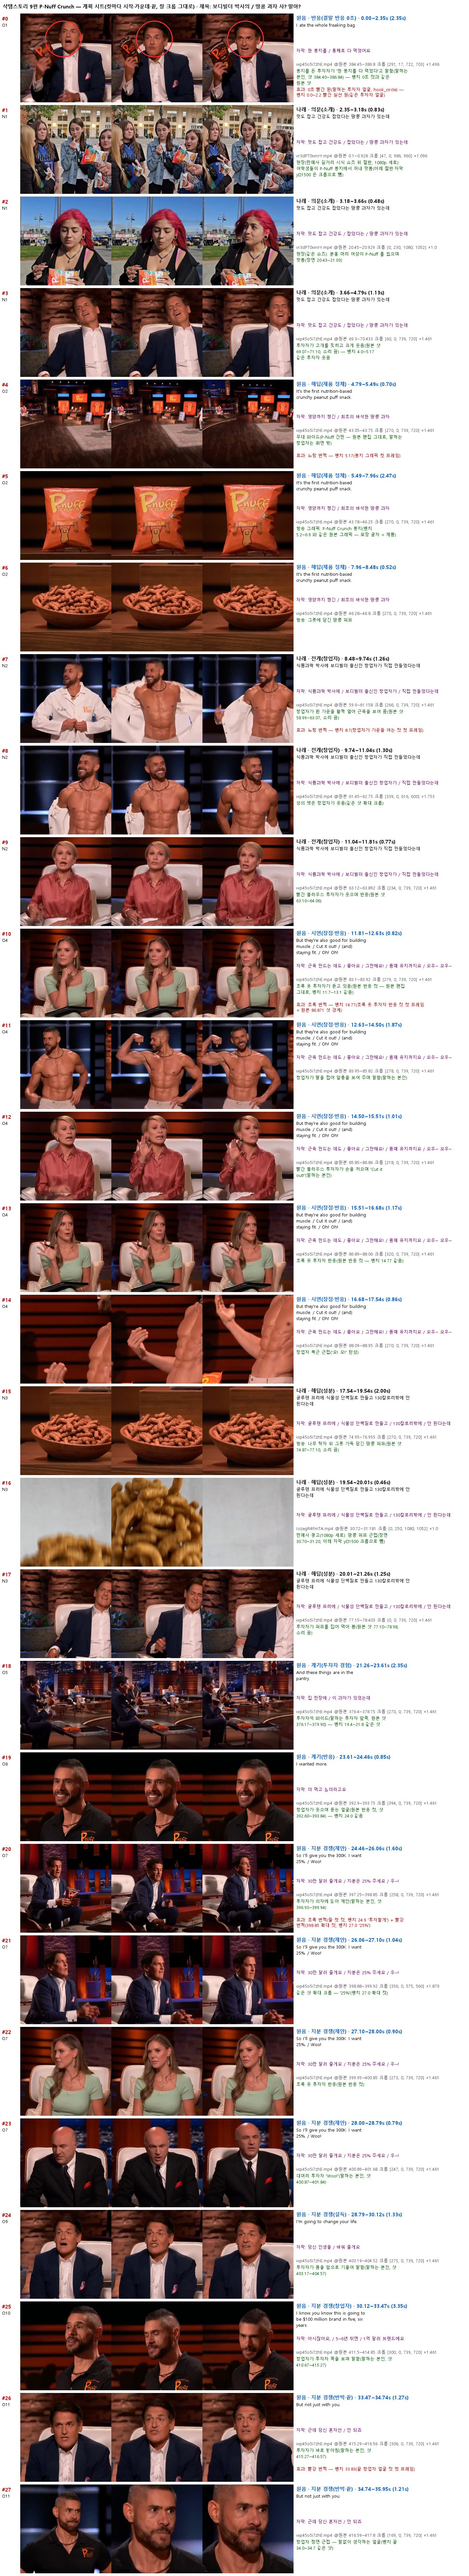
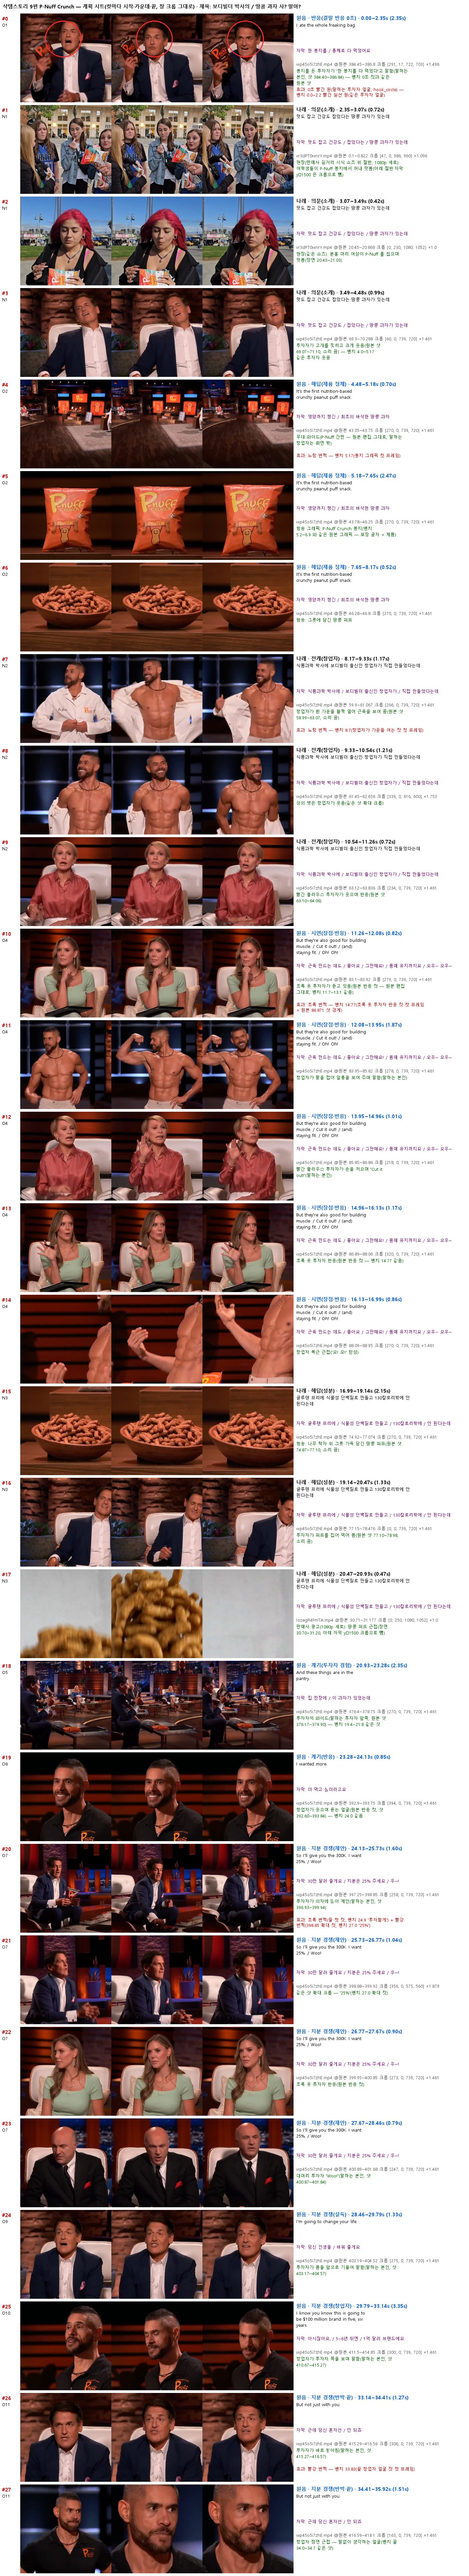
샥탬스토리 9편 P-Nuff Crunch 렌더: 36.53초 −9.0 LUFS · check 8/9(B16' 원본 급줌·광고 움직임) · verify_fx 6/6·7/7 · MD5 23DF7209 바탕화면·드라이브 (관제 097)

diff --git a/channel/foreignshowshow/9편_PNuffCrunch/make_plan.py b/channel/foreignshowshow/9편_PNuffCrunch/make_plan.py
@@ -97,9 +97,9 @@ LINES = [
     {"id": "N3", "kind": "나레", "beat": "해답(성분)", "text": "글루텐 프리에 식물성 단백질로 만들고 130칼로리밖에 안 된다는데",
      "tts": "글루텐 프리에 식물성 단백질로 만들고 백삼십 칼로리밖에 안 된다는데",
      "sub": ["글루텐 프리에", "식물성 단백질로 만들고", "130칼로리밖에", "안 된다는데"], "facts": ["f6"],
-     "cuts": [C(CLIP, 74.95, 76.95, 640, ours="방송: 나무 탁자 위 그릇 가득 담긴 땅콩 퍼프(원본 샷 74.87~77.10, 소리 끔)"),
-              C(IO, 30.72, 31.18, 540, 250, ours="판매사 광고(1080p 세로): 땅콩 퍼프 근접(장면 30.70~31.20, 아래 자막 y≈1500 크롭으로 뺌)"),
-              C(CLIP, 77.15, 78.40, ours="투자자가 퍼프를 집어 먹어 봄(원본 샷 77.10~78.98, 소리 끔)")]},
+     "cuts": [C(CLIP, 74.92, 76.95, 640, ours="방송: 나무 탁자 위 그릇 가득 담긴 땅콩 퍼프(원본 샷 74.87~77.10, 소리 끔)"),
+              C(CLIP, 77.15, 78.40, ours="투자자가 퍼프를 집어 먹어 봄(원본 샷 77.10~78.98, 소리 끔)"),
+              C(IO, 30.71, 31.15, 540, 250, ours="판매사 광고(1080p 세로): 땅콩 퍼프 근접(장면 30.70~31.20, 아래 자막 y≈1500 크롭으로 뺌)")]},
     {"id": "O5", "kind": "원음", "beat": "계기(투자자 경험)", "audio": (376.40, 378.75), "en": "And these things are in the pantry.",
      "sub": ["집 찬장에", "이 과자가 있었는데"], "facts": ["f7"], "cap_at": [376.48, 377.46],
      "cuts": [C(CLIP, 376.40, 378.75, 640, ours="투자자석 와이드(말하는 투자자 앞쪽, 원본 샷 376.17~379.90) — 벤치 19.4~21.8 같은 샷")]},
@@ -120,11 +120,11 @@ LINES = [
      "en": "I know you know this is going to be $100 million brand in five, six years.",
      "sub": ["아시잖아요,", "5~6년 뒤엔", "1억 달러 브랜드예요"], "facts": ["f9"], "cap_at": [411.56, 412.36, 413.08],
      "cuts": [C(CLIP, 411.50, 414.85, ours="창업자가 투자자 쪽을 보며 말함(말하는 본인, 샷 410.67~415.27)")]},
-    {"id": "O11", "kind": "원음", "beat": "지분 경쟁(반박·끝)", "audio": (415.29, 417.80), "en": "But not just with you.",
+    {"id": "O11", "kind": "원음", "beat": "지분 경쟁(반박·끝)", "audio": (415.29, 418.10), "en": "But not just with you.",
      "sub": ["근데 당신 혼자선", "안 되죠"], "facts": ["f9"], "cap_at": [415.32, 415.88],
      "fx": "빨강 번쩍 — 벤치 33.83(끝 창업자 얼굴 컷 첫 프레임)",
      "cuts": [C(CLIP, 415.29, 416.56, ours="투자자가 바로 받아침(말하는 본인, 샷 415.27~416.57)"),
-              C(CLIP, 416.59, 417.80, ours="창업자 정면 근접 — 말없이 생각하는 얼굴(벤치 끝 34.0~34.7 같은 샷)")]},
+              C(CLIP, 416.59, 418.10, ours="창업자 정면 근접 — 말없이 생각하는 얼굴(벤치 끝 34.0~34.7 같은 샷)")]},
 ]
 
 

diff --git a/channel/foreignshowshow/9편_PNuffCrunch/plan/계획.md b/channel/foreignshowshow/9편_PNuffCrunch/plan/계획.md
@@ -64,3 +64,14 @@
 ## 페이블께 물을 것
 - 끝: 벤치처럼 'not just with you' + 창업자 얼굴로 끝낼지(지금) vs BBH 처럼 15% 역제안 → 40만 달러/25% 성사(원본 431~488초, +약 15초)까지 넣을지.
 - O4 'staying fit'(낱말 4/6) 그대로 둘지 — 빼면 87.04~87.80 이 빠져 초록 번쩍 컷(벤치 14.77)이 짧아짐.
+
+## 렌더 결과 (10-19, 페이블 OK 뒤 — TTS 1회, narr_raw 재사용으로 렌더 4번)
+- 페이블 결정: 끝 = 벤치 그대로('not just with you' + 창업자 얼굴, 성사 장면 안 넣음) · O4 'staying fit' 유지.
+- 완성본 `C:/숏템_칼카피/foreignshowshow/9편_PNuffCrunch/work/render/final.mp4` 36.53초 = 바탕화면 `칼카피영상/샥탬스토리/샥탬스토리_9편_PNuffCrunch.mp4` = 드라이브 `G:/내 드라이브/칼카피영상/샥탬스토리2번폰/`(폴더 이름이 '샥탬스토리2번폰'으로 바뀌어 있음) — MD5 23DF7209E9A89BD85D53294A3504DAA5 셋 일치.
+- TTS 지훈 1회 narr_raw 8.80초 · 나레 실측 N1 2.13·N2 3.09·N3 3.95초 → make_plan 다시(N3 판매사 컷 30.71~31.15·순서 그릇→투자자 시식→퍼프, B13 묶음).
+- 1차 렌더 '소리 크기 못 맞춤'(8번 흔들림) = 공용 place_narr 결함(bdfe9e293 전, 나레가 앞으로 당겨져 원음과 겹침)이 원인 — 수리된 렌더러로 규칙 기본값 그대로 2번 만에 −9.2/−0.8 → 최종 −9.0 LUFS/−0.7 dBFS. 원음 창 −2dB 시험판은 버림(규칙 안 바꿈).
+- check.py: B1 ○(+5.0%) · B2 ○ · B4 ○(중앙 1.17·끝 컷 1.57 — O11 끝 컷 417.80→418.10 으로 늘림) · TITLE ○ · B13 ○ · A9 ○ · SYNC ○ · O-NARR ○ · **B16' ×**(되감김 1 = 21.13 판매사 광고 퍼프가 날리는 움직임, 소스 30.71~31.18 한 덩어리라 편집 되감김 아님 · 점프줌 3 = 35.43~35.50 원본 카메라 급줌 417.0~417.6, 벤치 34.0~34.5 같은 샷 같은 줌) — 시트 `sheets/seam21.jpg`·`seam35.jpg`.
+- verify_fx: 효과음 6/6 · 효과 7/7(원 1·번쩍 6) — `sheets/verify_fx.jpg` 눈 확인: 원(얼굴 감쌈)·노랑(봉지)·노랑(가운)·초록(초록 옷)·초록(제안)·빨강(25% 확대)·빨강(끝 창업자) 전부 보임.
+- 0초 훅 렌더 프레임(자막 포함) 벤치 나란히 `sheets/hook_vs_bench_render.jpg`: 0.1~1.8초 같은 샷·원 크기·자리 같음. 다른 점 = 우리 자막 첫 조각 '한 봉지를'이 0.19초부터(벤치는 0.1초에 이미 자막), 2.2초 벤치는 먹방 컷·우리는 아직 투자자.
+- ×1.88 컷(O7 '25%' 확대, 26.06~27.10) 원 크기 프레임 `sheets/zoom188_26.5.jpg`: 얼굴 윤곽·머리카락이 뭉개지고 압축 덩어리 보임(720p 원본 한계). 알아볼 수는 있음.
+- 완성본 받아쓰기(2모델 `asr/final_check.json`): N1 2.16~5.32(계획 2.38) · N2 8.10~11.28(계획 8.29) · N3 17.2~21.1(계획 17.25) — 나레가 계획 시각에 나옴. '식품과학'을 한 모델은 '식품공학', 한 모델은 '지품건복서'로 들음(발음 흐림 △).

diff --git a/channel/foreignshowshow/9편_PNuffCrunch/근거.md b/channel/foreignshowshow/9편_PNuffCrunch/근거.md
@@ -65,7 +65,7 @@
 | N1 | 맛도 잡고 건강도 잡았다는 땅콩 과자가 있는데 | f2 원본 46.88~50.14 창업자 'not only delicious, but it's also healthy and nutritious' — 창업자 주장 → 전언체 '~다는' |
 | O2 | (원음) It's the first nutrition-based crunchy peanut puff snack → 영양까지 챙긴 / 최초의 바삭한 땅콩 과자 | f3 43.12~46.52 ('최초' = 창업자 말 그대로, 원음 번역) |
 | N2 | 식품과학 박사에 보디빌더 출신인 창업자가 직접 만들었다는데 | f4 21.20~23.48 'PhD in food science' · 58.20~60.82 'former competitor bodybuilder' · 35.22~38.94 'I decided to make something better' |
-| O4 | (원음) building muscle / Cut it out! / staying fit / Oh! Oh! → 근육 만드는 데도 / 좋아요 / 그만해요! / 몸매 유지까지요 / 오우~ 오우~ | f5 83.18~88.9(staying fit △) |
+| O4 | (원음) building muscle / Cut it out! / staying fit / Oh! Oh! → 근육 만드는 데도 / 좋아요 / 그만해요! / 몸매 유지까지요 / 오우~ 오우~ | f5 83.18~88.9 — staying fit 87.04~87.80 유지(페이블 10-19: 6번 중 4번 'stay·fit' + 벤치도 같은 원음 자리). 일치 4 = whisper 'I'm staying fit' · 30초 창 'and staying fit' · v3 3-flash 'Stay fit' · v3 3.5-flash 'And stay in fit' / **갈린 2 = v1 3-flash 'Stay fair' · v1 3.5-flash 'And stay in bed'** |
 | N3 | 글루텐 프리에 식물성 단백질로 만들고 130칼로리밖에 안 된다는데 | f6 73.36~76.06 'plant-based protein' · 381.80~384.06 투자자가 봉지를 읽음 'Gluten-free, 130 calories' · 162.87 'Calories aren't bad, 130 calories' |
 | O5 | (원음) And these things are in the pantry → 집 찬장에 / 이 과자가 있었는데 | f7 376.48~378.62(앞 374.76 'One day, I come home') |
 | O6 | (원음) I wanted more → 더 먹고 싶더라고요 | f7 393.00~393.60 |
